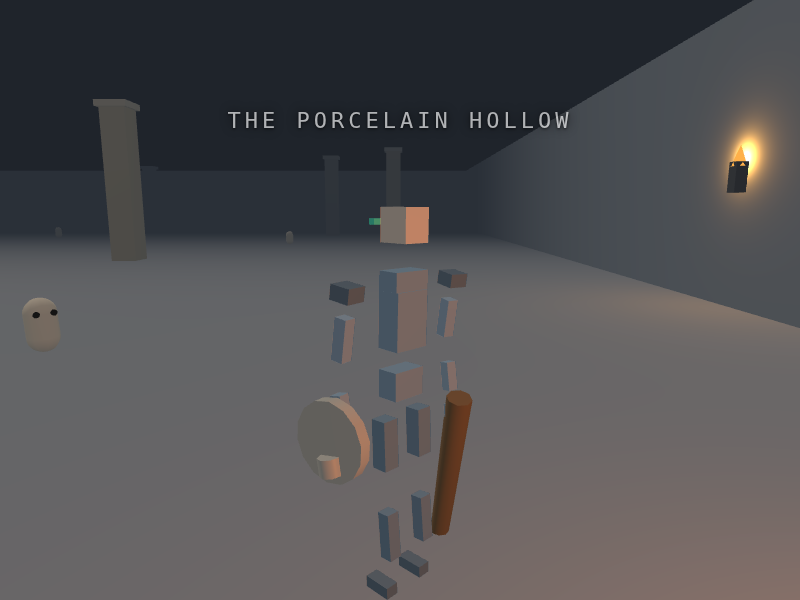
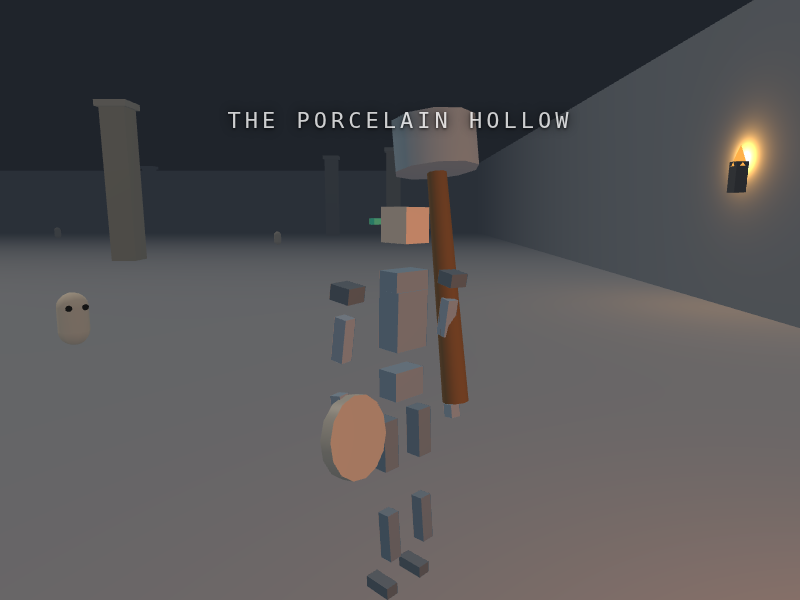
orient held weapon/shield into player world frame (Blender hand-bone -Y-up local frames)

diff --git a/src/main.ts b/src/main.ts
@@ -216,12 +216,22 @@ new GLTFLoader().load('model.glb', (gltf) => {
       }
     }
   });
+  // The rig's hand-bone local frames are Blender-convention (local -Y ≈ world up),
+  // so parent-held items must be re-aimed into the player's world frame:
+  // pivot world orientation = player world orientation -> local +Y up, +Z forward.
+  player.updateWorldMatrix(true, true);
+  const qHand = new THREE.Quaternion(), qPlayer = new THREE.Quaternion();
+  const aimAtPlayer = (obj: THREE.Object3D, parent: THREE.Object3D) => {
+    parent.getWorldQuaternion(qHand);
+    player.getWorldQuaternion(qPlayer);
+    obj.quaternion.copy(qHand).invert().multiply(qPlayer);
+  };
   const findBone = (names: string[]) => { for (const n of names) { const b = root.getObjectByName(n); if (b) return b; } return null; };
   const hand = findBone(['Hand.R', 'HandR']);
   if (hand) {
     weaponPivot.removeFromParent();
-    weaponPivot.position.set(0, -0.02, 0.05);
-    weaponPivot.rotation.set(-0.45, 0, 0.12);
+    weaponPivot.position.set(0, 0, 0.02);
+    aimAtPlayer(weaponPivot, hand);
     weaponPivot.scale.setScalar(1.5); // readable at third-person distance
     hand.add(weaponPivot);
   }
@@ -229,14 +239,17 @@ new GLTFLoader().load('model.glb', (gltf) => {
   const handL = findBone(['Hand.L', 'HandL']);
   if (handL) {
     const shMat = new THREE.MeshStandardMaterial({ color: 0xd8d4c8, roughness: 0.35, metalness: 0.1 });
+    const shieldRoot = new THREE.Group();
+    shieldRoot.position.set(-0.02, -0.02, 0.04);
+    aimAtPlayer(shieldRoot, handL);
     const shield = new THREE.Mesh(new THREE.CylinderGeometry(0.16, 0.16, 0.05, 14), shMat);
-    shield.rotation.z = Math.PI / 2;
-    shield.position.set(0.06, -0.03, 0);
+    shield.rotation.x = Math.PI / 2; // face normal -> +Z (player forward)
+    shield.position.set(0, 0, 0);
     const boss = new THREE.Mesh(new THREE.CylinderGeometry(0.045, 0.045, 0.07, 8), shMat);
-    boss.rotation.z = Math.PI / 2;
-    boss.position.set(0.085, -0.03, 0);
-    shield.add(boss);
-    handL.add(shield);
+    boss.rotation.x = Math.PI / 2;
+    boss.position.set(0, 0, 0.055);
+    shieldRoot.add(shield, boss);
+    handL.add(shieldRoot);
     shield.castShadow = true;
     tintMats.push(shMat);
   }
